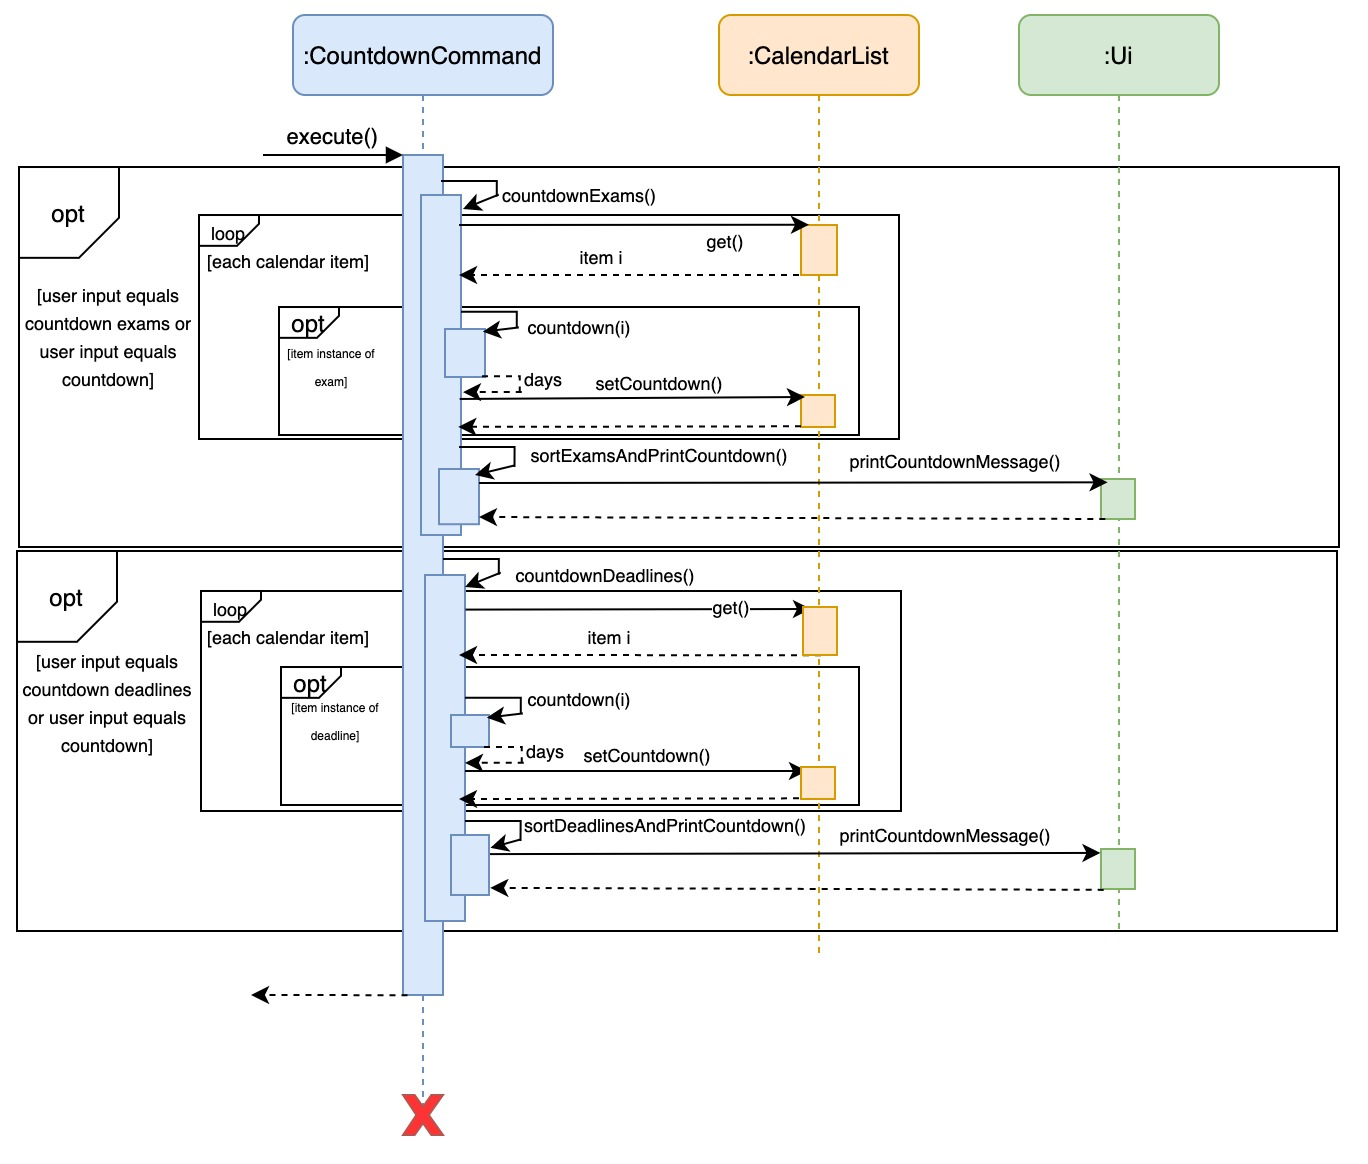
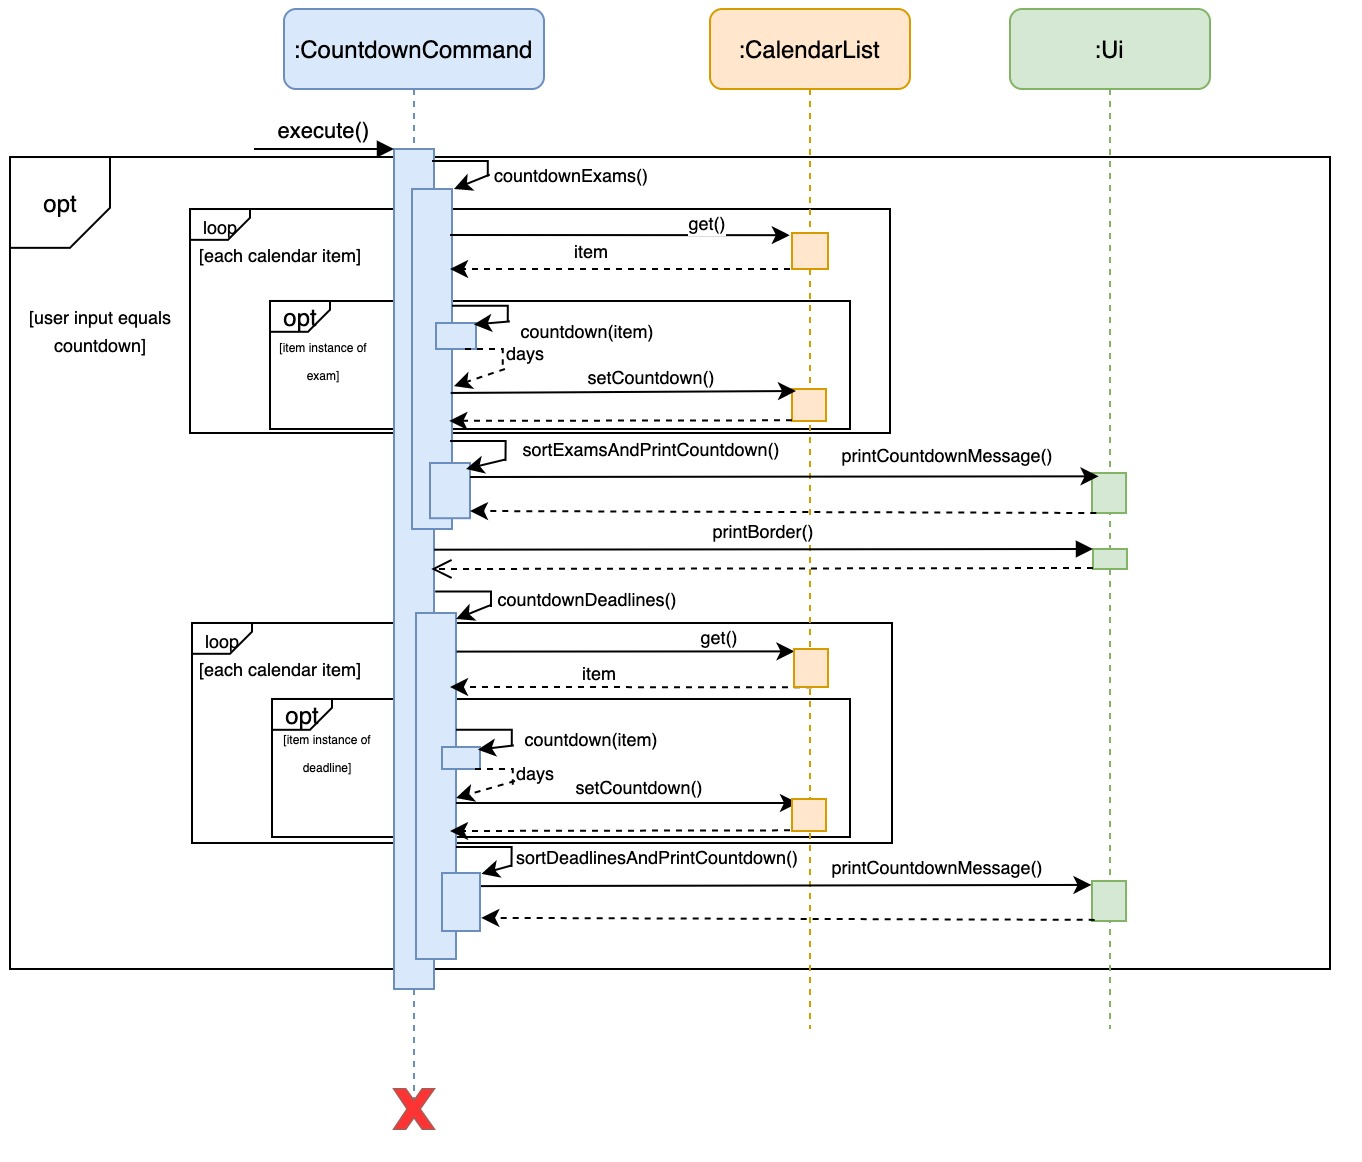
update SD and DG

diff --git a/docs/DeveloperGuide.md b/docs/DeveloperGuide.md
@@ -242,8 +242,11 @@ If no corresponding items, the functions will return null.
 ### Print countdown feature
 This feature is facilitated by `CountdownCommand`.
 
-The following sequence diagram shows how the `execute()` operation works when the user decide to see the countdown of exams or deadlines:<br/>
+The following sequence diagram shows how the `execute()` operation works when the user decide to see the countdown of exams and deadlines:<br/>
 <img src="https://raw.githubusercontent.com/AY2021S1-CS2113T-T12-2/tp/master/images/countdown_command_SD.jpg" alt="" width="750"/><br/>
+
+The following sequence diagram shows how the `execute()` operation works when the user decide to see the countdown of exams or deadlines:<br/>
+<img src="https://raw.githubusercontent.com/AY2021S1-CS2113T-T12-2/tp/master/images/countdown_deadlines_exams_SD.jpg" alt="" width="750"/><br/>
 
 Note: Before printing the countdown, `countdown()` function will calculate the countdown of exams or deadlines, and the countdowns for
 exams or deadlines will be sorted in ascending sequence by function `sortDeadlinesAndPrintCountdown()` or `sortExamsAndPrintCountdown()`
